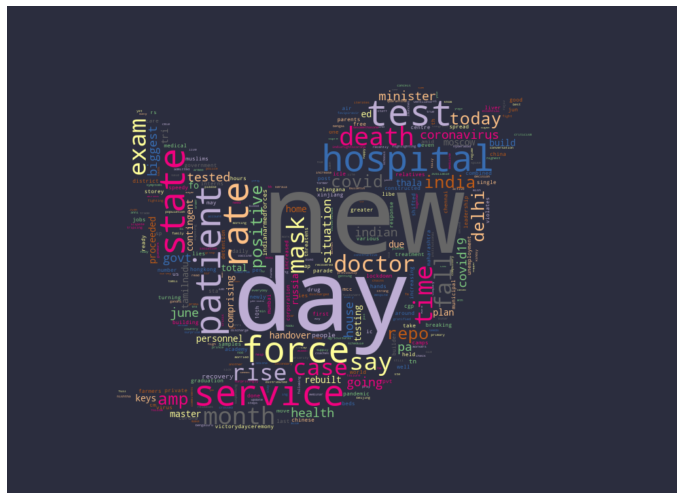
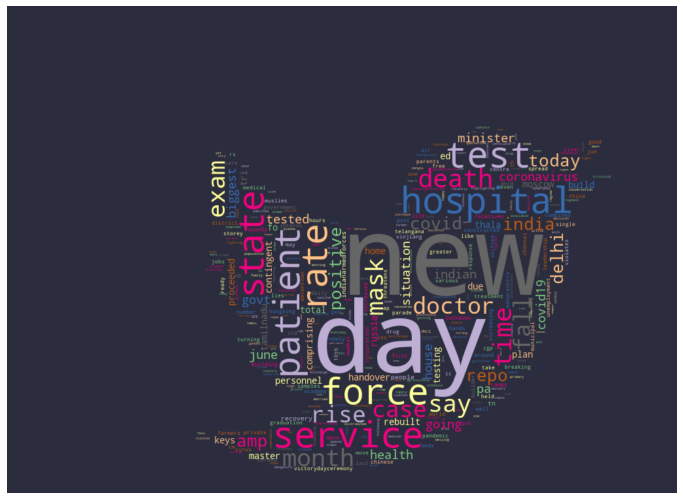
1

Changed region(s): [[0.1537, 0.18, 0.8917, 0.96]]

diff --git a/public/dashboard.html b/public/dashboard.html
@@ -139,8 +139,8 @@
             different sizes which represents the frequency of each word. The
             bigger and bolder the word appears, the more often it’s mentioned
             within a given text and the more important it is. This word cloud is
-            a graphical representation of the 50 most used words in our COVID-19
-            related tweets collected all across India.
+            a graphical representation of the 400 most used words in our
+            COVID-19 related tweets collected all across India.
           </p>
         </div>
       </section>
